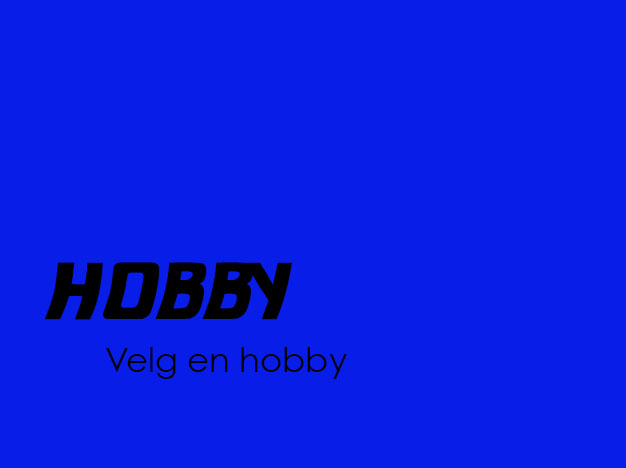
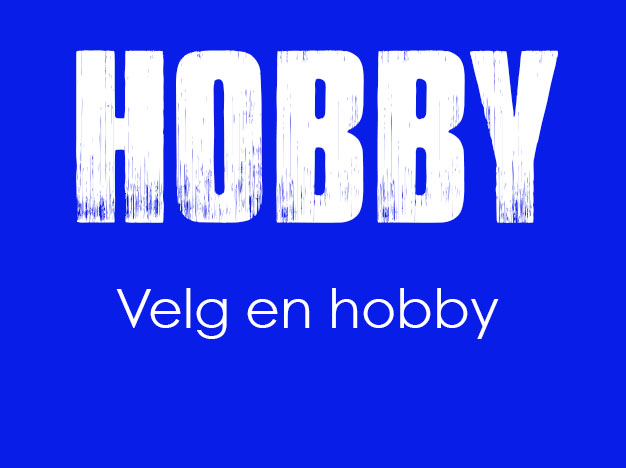
meny

Changed region(s): [[0.1214, 0.0897, 0.9105, 0.4786], [0.0607, 0.5385, 0.8195, 0.8077]]

diff --git a/Nettstedet/css/style.css b/Nettstedet/css/style.css
@@ -94,7 +94,8 @@ img:hover
   float:left;
   margin-left:12.5%;
   margin-right:1%;
-  background-color:blue;
+  background: url("../bilder/medtekst/hobby-bla-medtekst.jpg");
+  background-size: cover;
 
 }
 
@@ -176,7 +177,7 @@ h1{
   #wrapper { width:70%; margin-left:15%; margin-right:15%; }
   .sport { width:49%; height:200px; margin-right:0px; margin-top:2%; float:right; }
   .random { width:49%; height:200px; margin-left:0%; margin-top:2%; margin-bottom:0px; float:left;}
-  .hobby { width:49%; height:200px; margin-left:0%; margin-top:2%; float:left;}
+  .hobby { width:49%; height:200px; margin-left:0%; margin-top:2%; float:left; }
   .test { width:49%; height:200px; margin-left:0px; margin-top:1%; margin-right:0%; float:right;}
   .kontakt{width:49%; height:100px; clear:left;}
   .sok{width:49%; float:right; margin-right:0%; margin-left:0%; padding-left:0%; padding-right:0%;}
